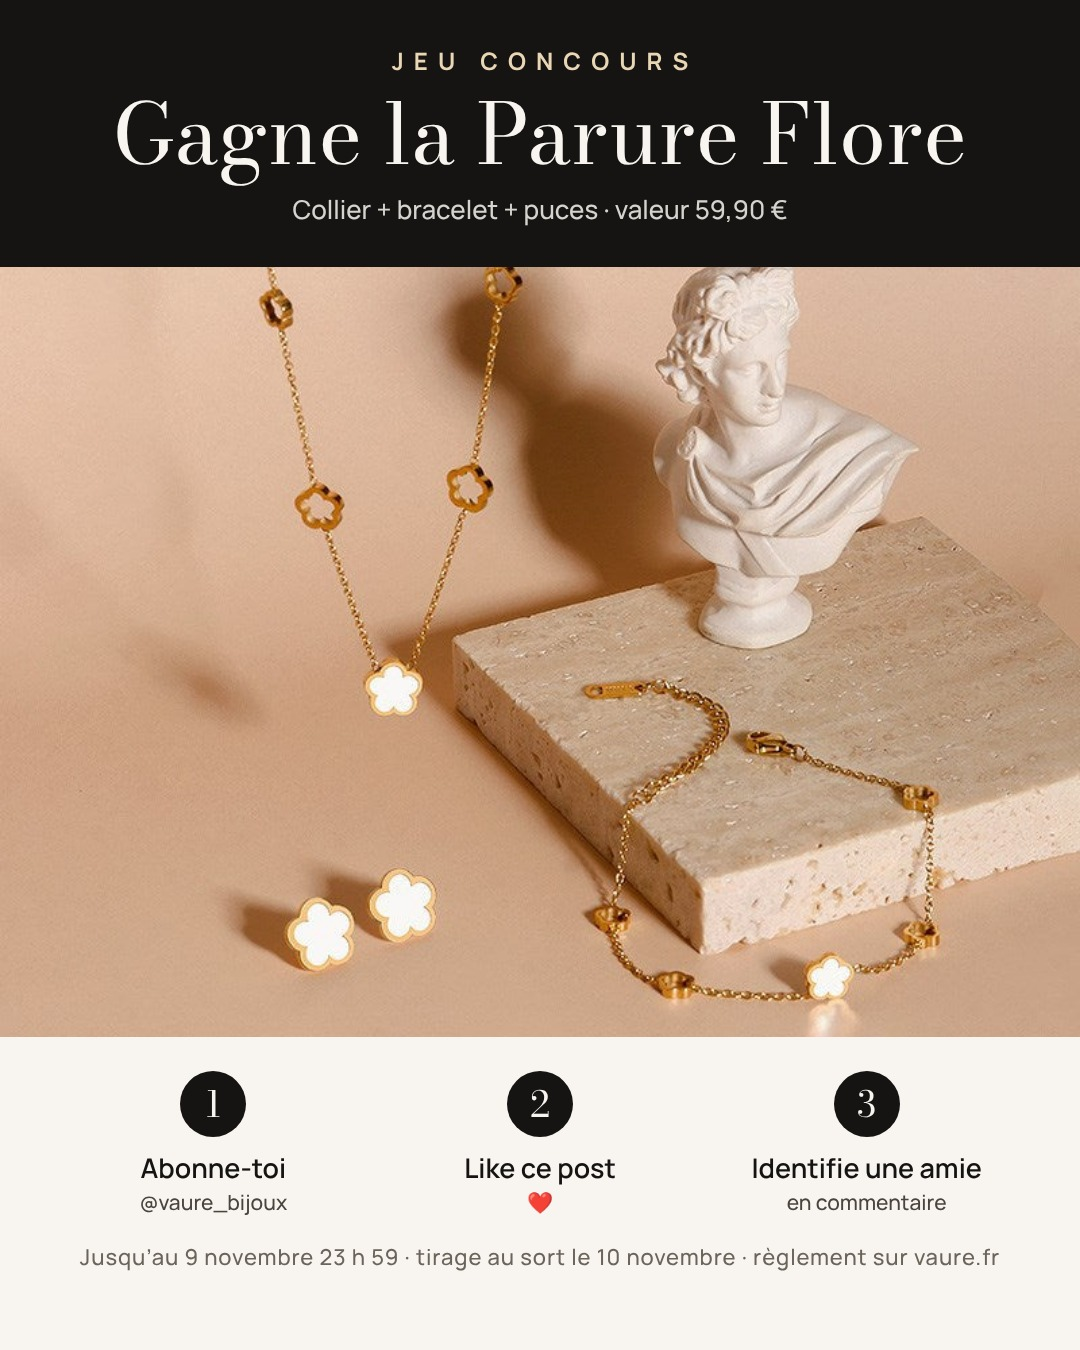
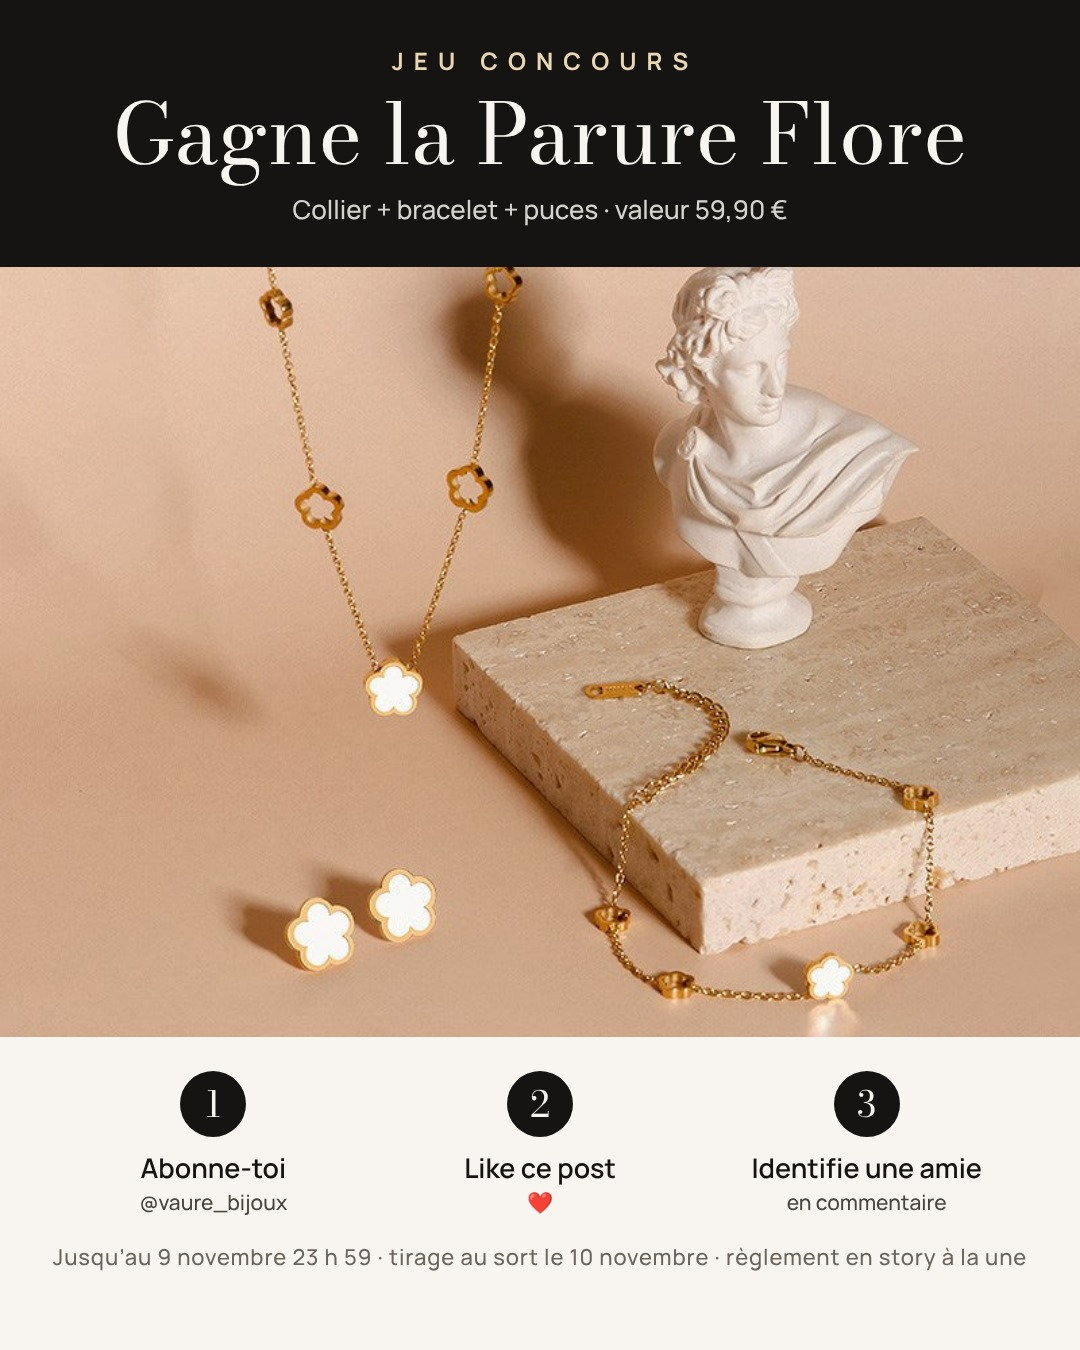
Jeu concours : règlement sur Instagram uniquement
Claude-Session: https://claude.ai/code/session_013s4U6wyjEEiqqasJXAgjhq

diff --git a/vaure/docs/lancement.md b/vaure/docs/lancement.md
@@ -65,4 +65,4 @@ Le thème Rebel (VAURE) est le thème publié sur jimenez-shop.com.
 - 01/11 – Accueil v2 : haut de page remplacé par la photo de colliers superposés floutée (vaure-hero-flou.jpg / -mobile.jpg), texte en clair (scheme-6). Image d'aperçu des liens floutée dans Fichiers : vaure-apercu-lien-flou.jpg (à choisir dans Préférences).
 - 01/11 – « noircir » remplacé par « fait(e)s pour durer » partout : 58 fiches produits (texte + SEO), 5 collections, pages Notre histoire / Matières / FAQ, 3 articles du Journal, thème v2 (accueil, comparatif panier et fiche, titre SEO, impression), 6 pubs et image de lien.
 - 01/11 – Marché « Francophonie » créé (Monaco, Canada, DOM-TOM, Maroc, Tunisie, Sénégal, Côte d'Ivoire, Cameroun) ; marchés Belgique et Suisse déjà actifs. Profil de livraison VAURE : Luxembourg/Monaco 3,90 € (offerte ≥35), Outre-mer 5,90 € (≥50), Canada 6,90 € (≥50), Afrique francophone 7,90 € (≥60). Pages Livraison et CGV mises à jour. À vérifier : vrais frais CJ vers ces pays.
-- 02/11 – Jeu concours « Gagne la Parure Flore » : règlement publié (/pages/reglement-jeu-concours), visuels post + story dans vaure/pubs/jeu-concours/. Du 03/11 18 h au 09/11 23 h 59, tirage le 10/11.
+- 02/11 – Jeu concours « Gagne la Parure Flore » : règlement en stories à la une (page du site dépubliée à la demande de la propriétaire), visuels post + story dans vaure/pubs/jeu-concours/. Du 03/11 18 h au 09/11 23 h 59, tirage le 10/11.

diff --git a/vaure/pubs/jeu-concours/legende.md b/vaure/pubs/jeu-concours/legende.md
@@ -1,7 +1,7 @@
 # Jeu concours « Gagne la Parure Flore »
 
 Dates : du mardi 3 novembre 18 h au lundi 9 novembre 23 h 59 · tirage le mardi 10 novembre.
-Règlement : https://vaure.fr/pages/reglement-jeu-concours
+Règlement : stories à la une « Concours » (vaure-reglement-1.jpg, vaure-reglement-2.jpg). Rien sur le site.
 
 Légende :
 🎁 JEU CONCOURS – Gagne la Parure Flore (collier + bracelet + puces, valeur 59,90 €) !
@@ -13,7 +13,7 @@ Pour participer :
 
 📅 Jusqu'au 9 novembre 23 h 59 · tirage au sort le 10 novembre
 🌍 France, Belgique, Suisse, Luxembourg, Monaco · 18 ans et plus
-Jeu gratuit, sans obligation d'achat. Règlement sur vaure.fr (lien en bio).
+Jeu gratuit, sans obligation d’achat. Règlement en story à la une « Concours ».
 Ce jeu n'est ni organisé ni parrainé par Instagram.
 
 #jeuconcours #concoursinstagram #bijouxacier #giveaway #concoursbijoux
